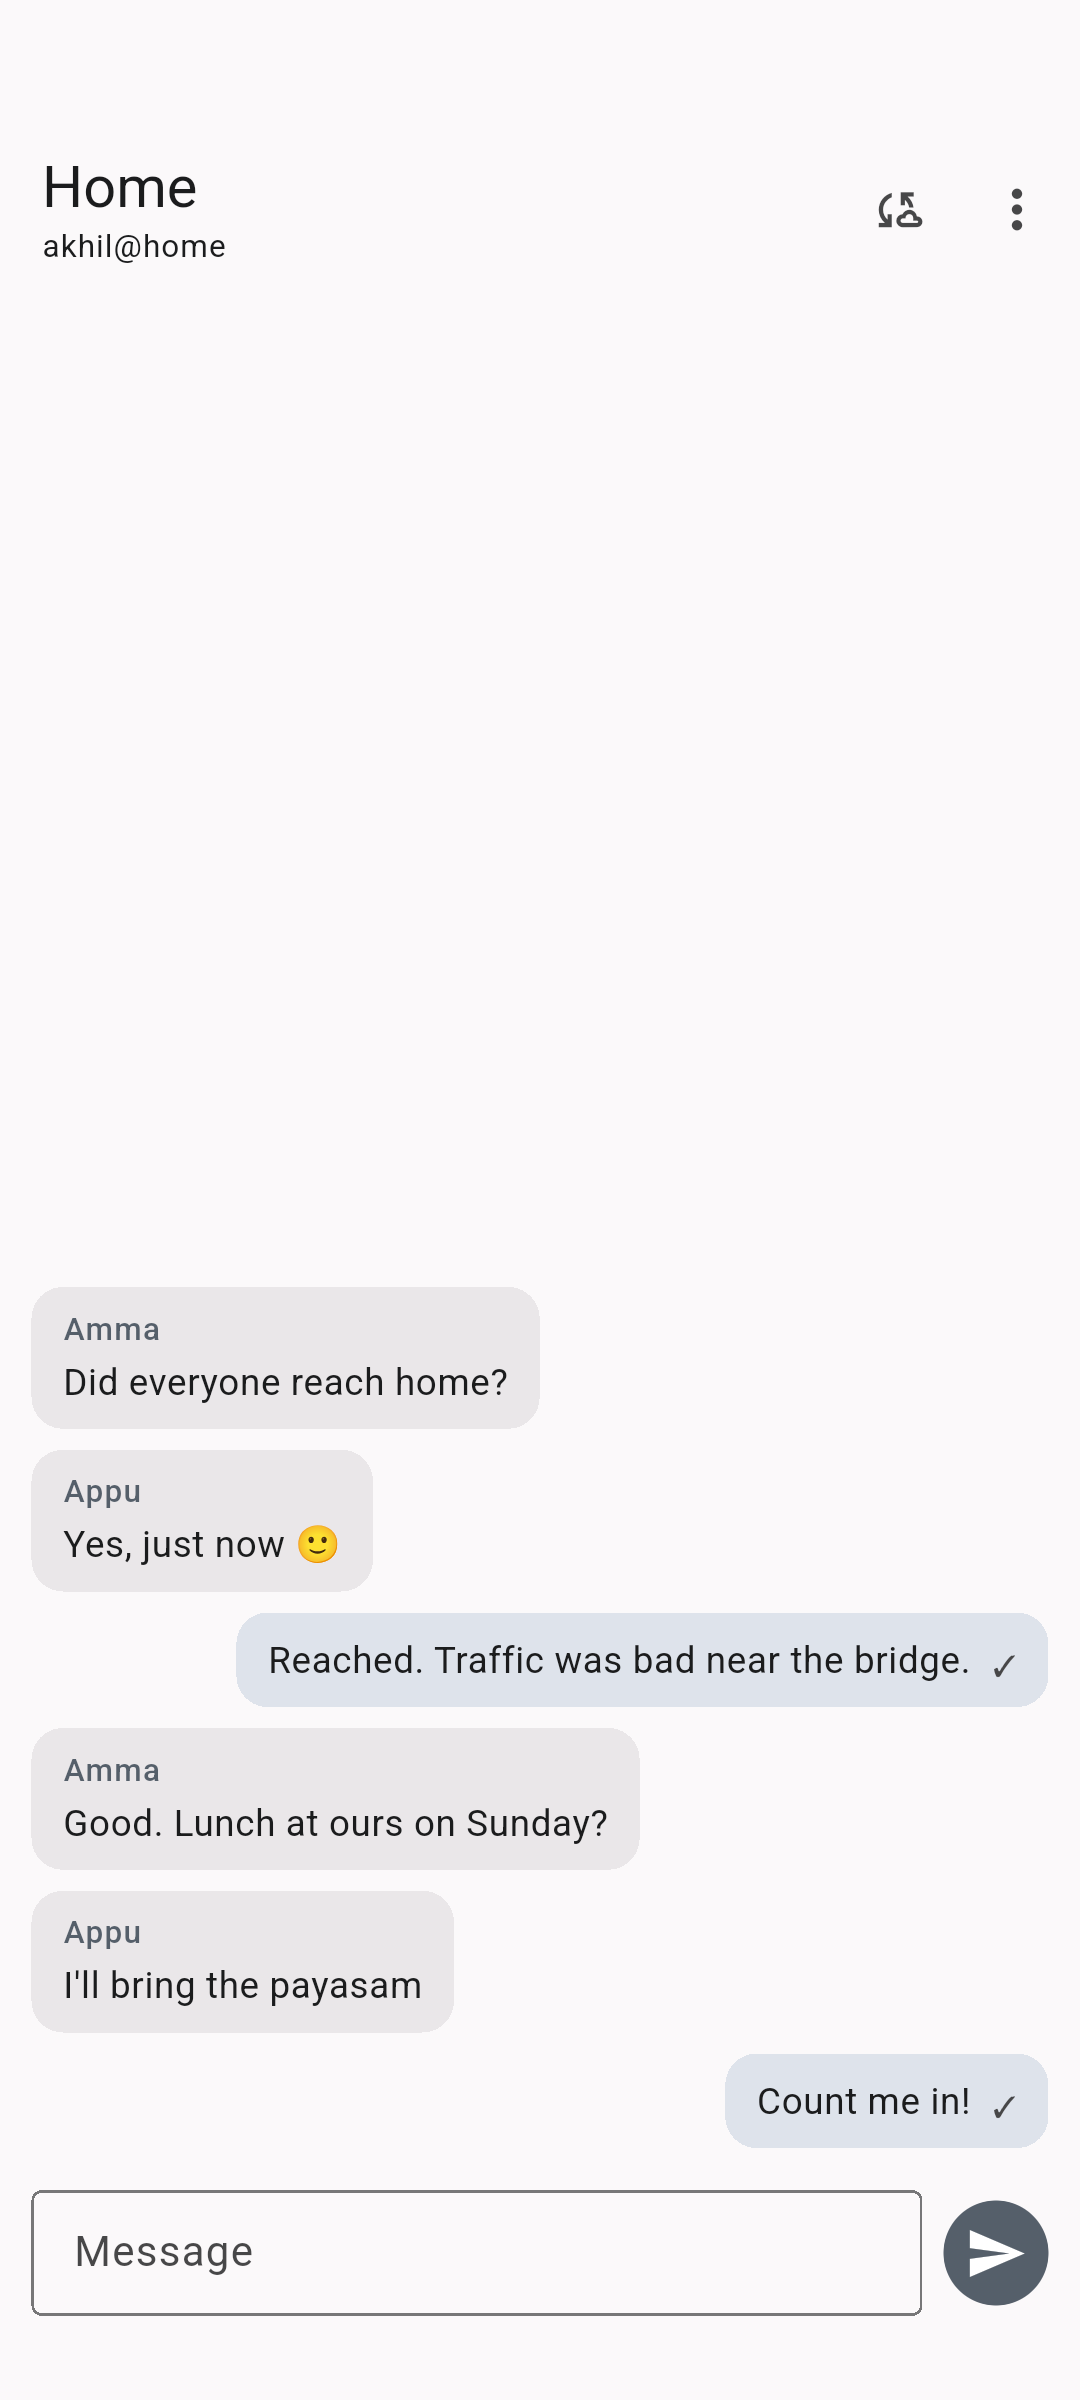
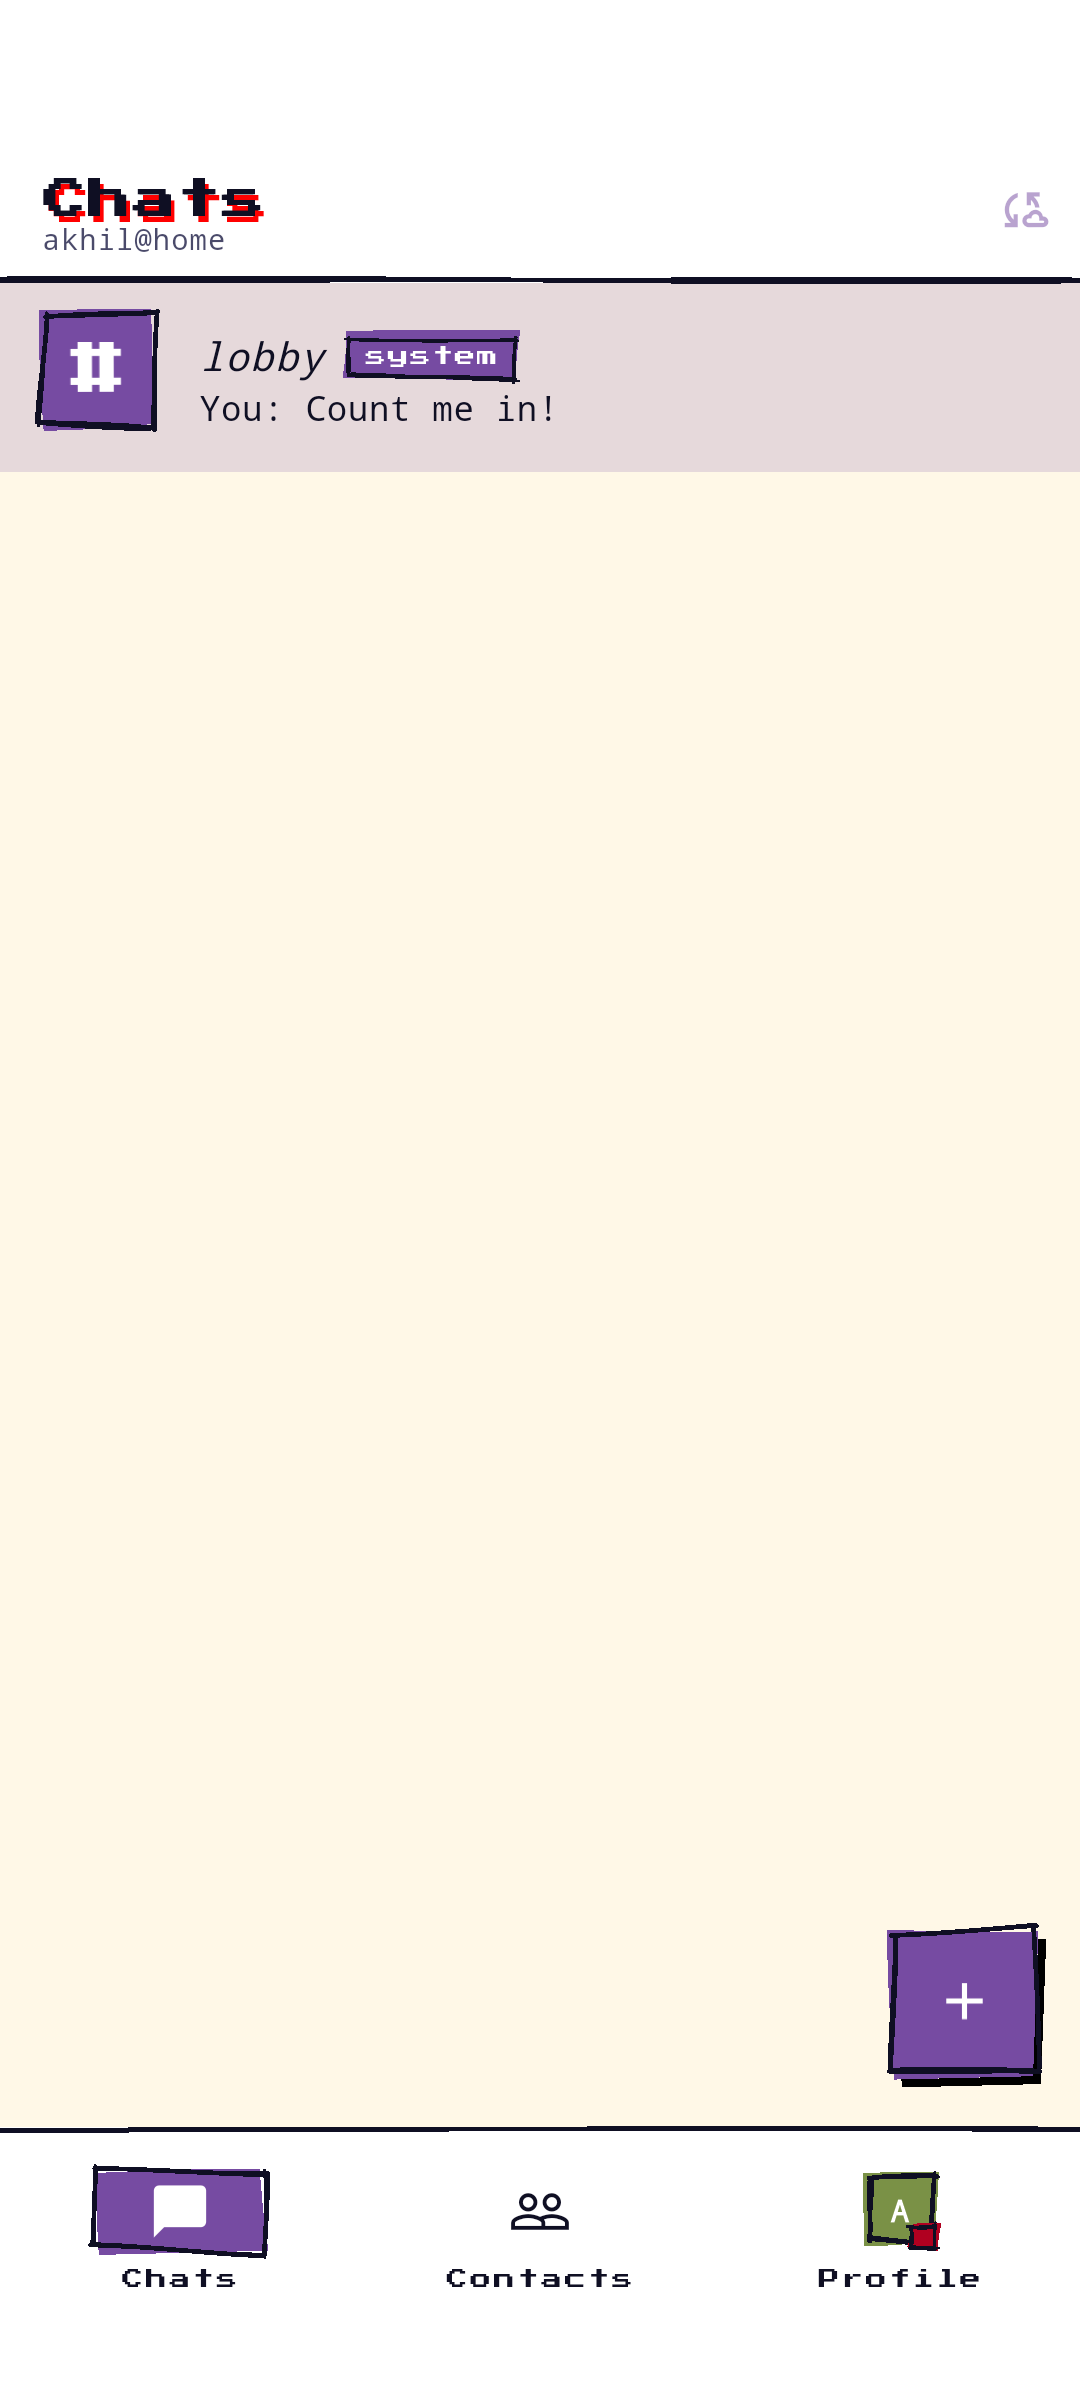
store: refresh Android screenshots for the Arcade app-shell (#83)
## Why
The committed Android store screenshots were stale (pre-restyle), and
`app/store/screenshots.sh` silently no-op'd on the current UI: the
Arcade restyle (#65/#69) adds perpetual **sprite motion**, so
`pumpAndSettle` never settles and timed out *before* `takeScreenshot`
ran — leaving the old PNGs in place. The app-shell
(Chats/Contacts/Profile tabs) also removed the old in-list Menu→Members
affordance the test drove.

## What changed
- **`screenshots_test.dart`**: `shot()` now pumps a bounded 700 ms
instead of `pumpAndSettle` (sprite motion never settles); navigation
uses the **Contacts** bottom-nav tab instead of the removed Menu→Members
path.
- **Regenerated**
`app/store/screenshots/android/{1-chat,2-members,3-join}.png` from the
1.8.0 Arcade build (1080×2400):
  - **1-chat** — the pixel-art Chats list
  - **2-members** — Contacts: members (Akhil/Amma/Appu) + admin actions
  - **3-join** — the Arcade "Join the group" onboarding

Captured on an Android emulator via `app/store/screenshots.sh` (fake
core, no real server). All three verified visually.

## Notes
- The screenshot test isn't run in CI (it's a manual store-asset
generator), so this doesn't affect CI.
- iOS screenshots are handled separately by the App Store session; the
same `shot()` fix benefits them too.
- These PNGs still need to be uploaded to the Play Console listing
(separate manual step — the built-in browser can't drive the OS file
picker).
[…]

diff --git a/app/integration_test/screenshots_test.dart b/app/integration_test/screenshots_test.dart
@@ -67,7 +67,9 @@ void main() {
       await binding.convertFlutterSurfaceToImage();
       converted = true;
     }
-    await tester.pumpAndSettle();
+    // The Arcade theme runs perpetual sprite motion, so pumpAndSettle never
+    // settles; pump a bounded duration to render the frame instead.
+    await tester.pump(const Duration(milliseconds: 700));
     await binding.takeScreenshot(name);
   }
 
@@ -79,10 +81,10 @@ void main() {
     await core.open();
     await shot(tester, '1-chat');
 
-    await tester.tap(find.byTooltip('Menu'));
-    await tester.pumpAndSettle();
-    await tester.tap(find.text('Members'));
-    await tester.pumpAndSettle();
+    // Robust app-shell navigation via a bottom-nav label (the old Menu→Members
+    // path no longer exists on the Chats list under the app-shell).
+    await tester.tap(find.text('Contacts'));
+    await tester.pump(const Duration(milliseconds: 700));
     await shot(tester, '2-members');
 
     final joining = FakeCoreService();
